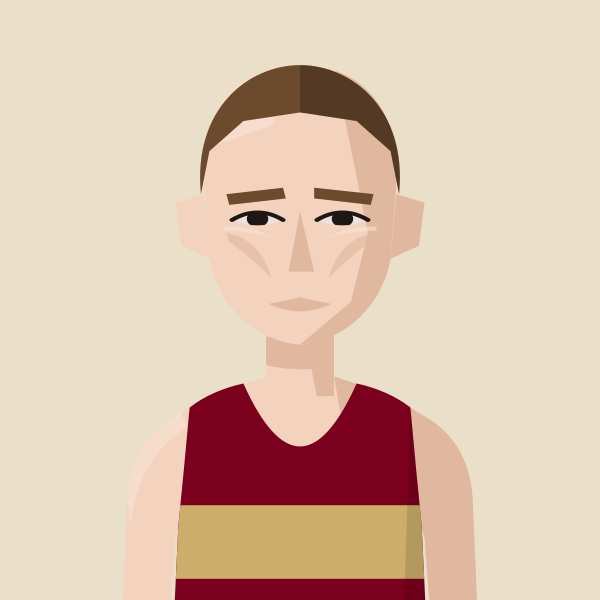
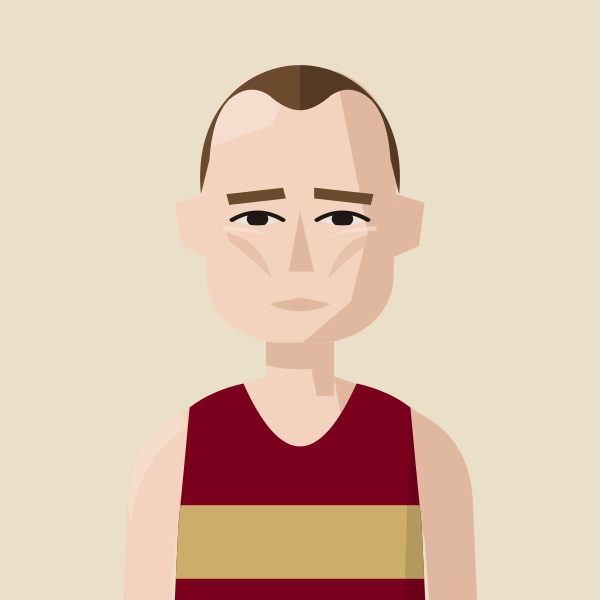
James Estall: square jaw, thinning hair
Claude-Session: https://claude.ai/code/session_01MgmDWhFqnSSnP4iBLKXUZC

Changed region(s): [[0.33, 0.15, 0.66, 0.3], [0.54, 0.42, 0.66, 0.57]]

diff --git a/files/index.html b/files/index.html
@@ -594,7 +594,7 @@ return m;})();
 const portraitFile=(name,club)=>{const k=normalizeNameForCompare(name||'').replace(/\s*\(([^)]*)\)$/,(m,c)=>CLUBS[c.toUpperCase()]?'':m);const a=PORTRAITS[k];if(a&&a.club===club)return a.file;const b=PORTRAITS[k+'@'+club];return b?b.file:null;};
 // Athlete header figure: superstar portrait if we have one, else a grey runner in the club vest, else the plain vest icon
 // Changes whenever any portrait changes (set by tools/build_og.py), so browsers fetch fresh images instead of old cached ones
-const PORTRAIT_V='69dff9c4';
+const PORTRAIT_V='b4ba1307';
 const AthletePortrait=({name,club,w,fill,onClick})=>{const[failed,setFailed]=useState(false);const file=portraitFile(name,club);const src=file?`/portraits/athletes/${file}.svg?v=${PORTRAIT_V}`:PORTRAIT_CLUBS.has(club)?`/portraits/clubs/${club.replace(/\//g,'').replace(/&/g,'and')}.svg?v=${PORTRAIT_V}`:null;if(!src||failed)return<div onClick={onClick} className={onClick?'cursor-pointer':''}><ClubShield club={club} size={w}/></div>;const h=Math.round(w*148/126),ih=Math.round(w*1.4);if(fill)return<div onClick={onClick} className="cursor-pointer" style={{alignSelf:'stretch',minHeight:h,aspectRatio:'126 / 148',flexShrink:0,position:'relative',borderRadius:4,overflow:'hidden'}}><img src={src} alt={file?`Portrait of ${name.replace(/\s*\([^)]*\)$/,'')}`:`Runner in ${CLUBS[club]?.name||club} vest`} style={{position:'absolute',top:0,left:0,display:'block',width:'100%',height:'auto'}} onError={()=>setFailed(true)}/></div>;return<div style={{width:w,height:h,borderRadius:4,overflow:'hidden',flexShrink:0}}><img src={src} alt={file?`Portrait of ${name.replace(/\s*\([^)]*\)$/,'')}`:`Runner in ${CLUBS[club]?.name||club} vest`} width={w} height={ih} style={{display:'block',width:w,height:ih}} onError={()=>setFailed(true)}/></div>;};
 const getClubVestSvg=(club)=>{
   const p="M3 0 L6 0 Q7 4 10 5 Q13 4 14 0 L17 0 L17 20 L3 20 Z";

diff --git a/tools/gen_portraits.py b/tools/gen_portraits.py
@@ -780,7 +780,7 @@ W96 = [  # Belgrave 1996-97 club magazine
  ("gerry-adams","BEL","Gerry Adams",dict(skin=1,hair="shortcurls",hair_colour="#C08A50"),"wavy strawberry-blond hair"),
  ("mike-nouch","BEL","Mike Nouch",dict(skin=1,hair="quiffrecede",hair_colour="#2A1D18",creases=True),"receding dark hair"),
  ("darren-mead","BEL","Darren Mead",dict(skin=1,hair="crop",hair_colour="#5A3E2B"),"short brown hair"),
- ("james-estall","BEL","James Estall",dict(skin=1,hair="crop",hair_colour="#6B4A2E",gaunt=True),"short brown hair, lean face"),
+ ("james-estall","BEL","James Estall",dict(skin=1,hair="croprecede",hair_colour="#6B4A2E",gaunt=True,jaw="square"),"brown hair thinning on top, square jaw"),
 ]
 for slug, club, name, kw, alt in W96:
     save(slug, figure(club, **kw))
